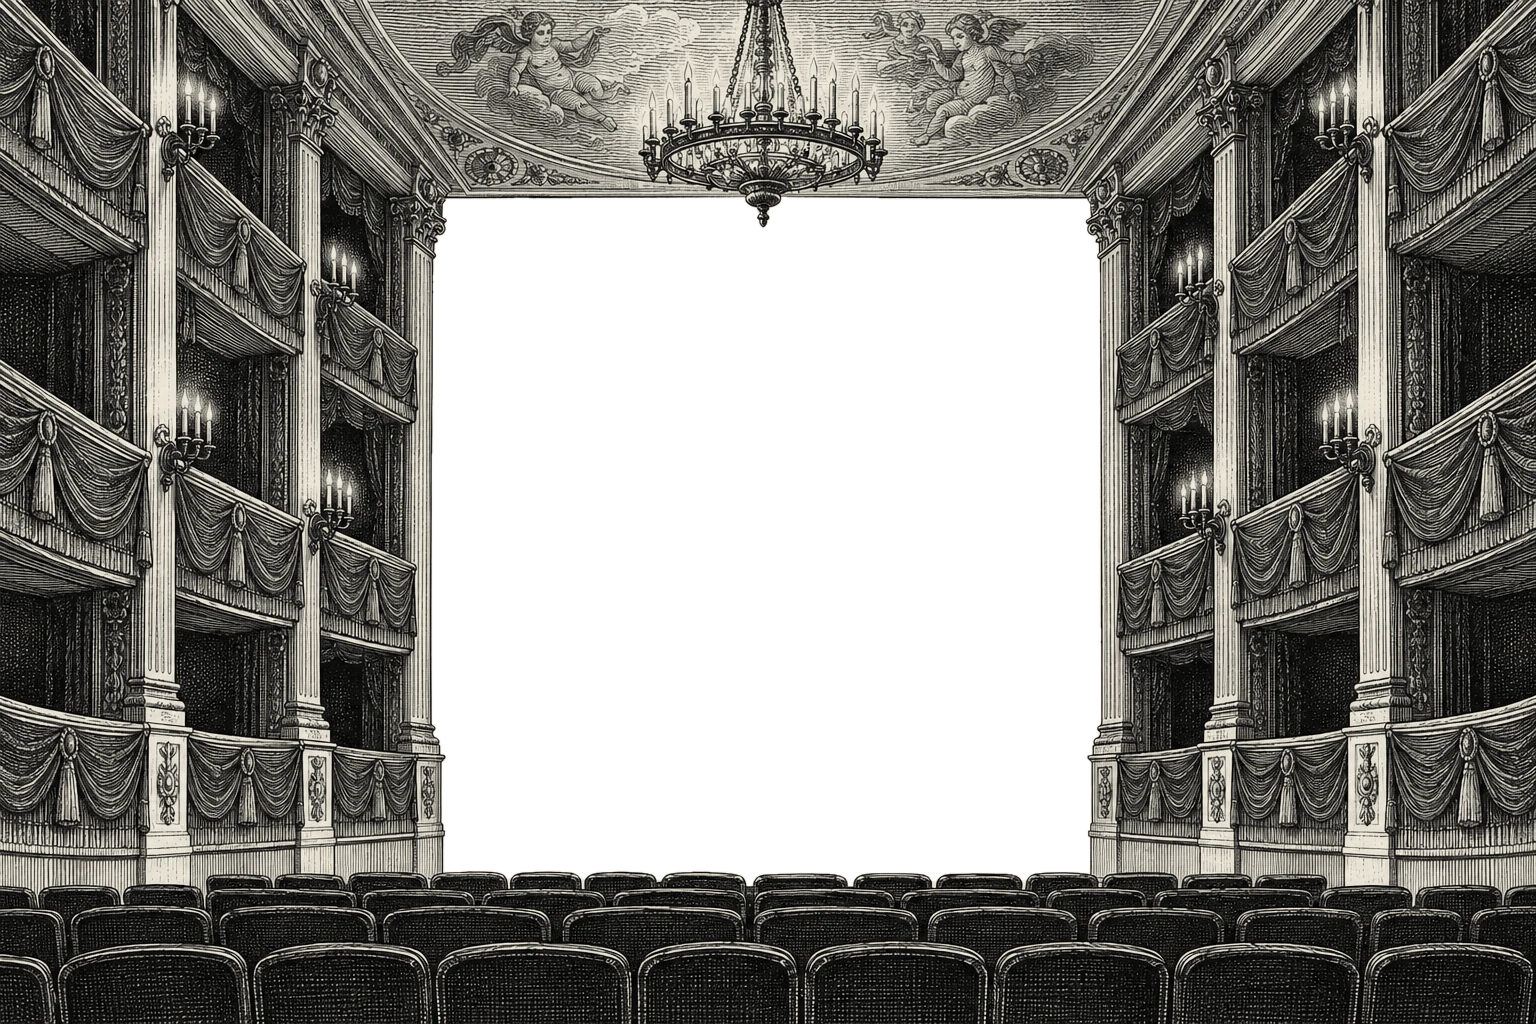
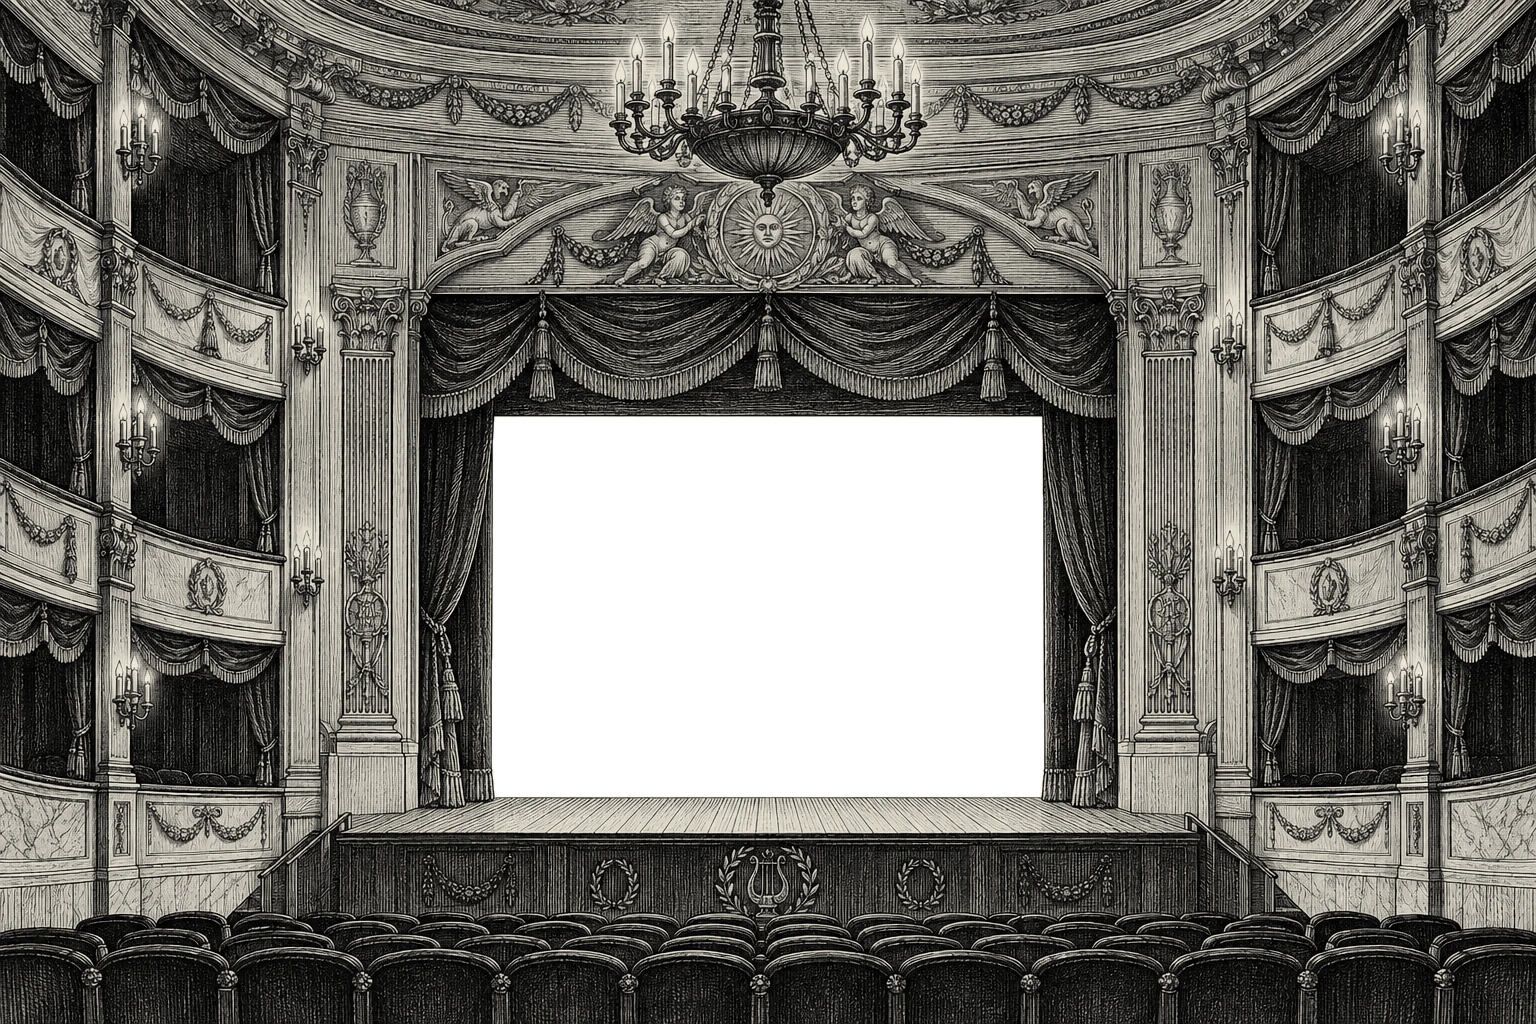
Opening: the hall's own arch and curtains frame the toy theatre, as in the Alice game
The hall drawing with its stage arch is back; the toy front stands on its stage,
dark drapery behind it, the audience nearer the seat, the view pulled back.

Claude-Session: https://claude.ai/code/session_015J9f2YVWE3eqxvLQrkHQmj

diff --git a/src/theatre.js b/src/theatre.js
@@ -15,7 +15,7 @@ export const PROS = { w: 12, h: 7.2, z: 2.2, open: { w: 8.4, h: 4.6, cy: 2.55 } 
 const K = 0.7;
 const at = ([x, y, z]) => [x * K, y * K, PROS.z + (z - PROS.z) * K];
 // The opening shot, from the stalls (scenes start their camera here).
-export const SEAT = { pos: at([0, 2.0, 19.5]), look: at([0, 1.6, -3]) };
+export const SEAT = { pos: at([0, 2.3, 25]), look: at([0, 1.9, -3]) };
 // Over the heads, up the aisle, just short of the toy front.
 export const AISLE = { pos: at([0, 1.9, 11.0]), look: at([0, 1.5, -3]) };
 
@@ -111,7 +111,7 @@ function seatsArt() {
 
 // The AI theatre (tools/theatre_art.py): the openings cut out of each drawing, in its pixels.
 const FRONT_OPEN = { x0: 399, x1: 1137, y0: 274, y1: 775 }; // theatre/proscenium, 1536 x 1024
-const HOUSE_OPEN = { x0: 432, x1: 1100, y0: 197, y1: 885 }; // theatre/house: its empty middle, where the toy theatre stands
+const HOUSE_OPEN = { x0: 492, x1: 1043, y0: 417, y1: 796 }; // theatre/house: its stage opening
 
 // Builds the theatre into a scene's group. title/sub: lettered on the toy front (the drawn one;
 // the AI front has the title lettered on its banner by tools/theatre_art.py).
@@ -128,28 +128,29 @@ export function buildTheatre(scene, ai = {}, { title = 'FRANKENSTEIN', sub = '' 
     const px0 = (768 - (FRONT_OPEN.x0 + FRONT_OPEN.x1) / 2) * k;
     pros.position.set(px0, y0, PROS.z);
     group.add(pros);
-    // The hall round it has no stage arch of its own (owner, 2026-10-16: one arch, not two): the
-    // toy front stands in its empty middle, just filling its width, on a plain paper ground with
-    // a hole for the toy stage's opening.
-    const k2 = W * 1.03 / (HOUSE_OPEN.x1 - HOUSE_OPEN.x0);
+    // The hall round it, as in the Alice game (owner, 2026-10-16): the hall's own stage arch, pelmet
+    // and curtains frame the toy front, which stands on the hall's stage. The hall's opening is
+    // 0.98 of the toy front's height, so the hall's drapes just cover its outer edges and there is
+    // no blank paper round it.
+    const k2 = H * 0.98 / (HOUSE_OPEN.y1 - HOUSE_OPEN.y0);
     const house = paperFlat(ai['theatre/house'].tex, 1536 * k2, 1024 * k2, { edge: false });
-    const hy = y0 + 0.15 - (1024 - HOUSE_OPEN.y1) * k2; // the toy front's foot just below the stalls' top
-    house.position.set((768 - (HOUSE_OPEN.x0 + HOUSE_OPEN.x1) / 2) * k2, hy, PROS.z + 0.1);
-    const hole = { x0: (HOUSE_OPEN.x0 - 768) * k2 - 0.2, x1: (HOUSE_OPEN.x1 - 768) * k2 + 0.2, y0: hy + (1024 - HOUSE_OPEN.y1) * k2 - 0.2, y1: hy + (1024 - HOUSE_OPEN.y0) * k2 + 0.2 };
+    const hy = y0 - (1024 - HOUSE_OPEN.y1) * k2; // the hall's opening foot at the toy front's foot
+    house.position.set(px0 + (768 - (HOUSE_OPEN.x0 + HOUSE_OPEN.x1) / 2) * k2, hy, PROS.z + 0.1);
+    // Dark drapery behind the toy front, filling the hall's opening round its pediment and urns,
+    // with a hole for the toy stage's opening.
+    const hole = { x0: house.position.x + (HOUSE_OPEN.x0 - 768) * k2, x1: house.position.x + (HOUSE_OPEN.x1 - 768) * k2, y0: hy + (1024 - HOUSE_OPEN.y1) * k2, y1: hy + (1024 - HOUSE_OPEN.y0) * k2 };
     const op = { x0: px0 + (FRONT_OPEN.x0 - 768) * k, x1: px0 + (FRONT_OPEN.x1 - 768) * k, y0: y0 + (1024 - FRONT_OPEN.y1) * k, y1: y0 + (1024 - FRONT_OPEN.y0) * k };
     const shape = new THREE.Shape([new THREE.Vector2(hole.x0, hole.y0), new THREE.Vector2(hole.x1, hole.y0), new THREE.Vector2(hole.x1, hole.y1), new THREE.Vector2(hole.x0, hole.y1)]);
     shape.holes.push(new THREE.Path([new THREE.Vector2(op.x0, op.y0), new THREE.Vector2(op.x0, op.y1), new THREE.Vector2(op.x1, op.y1), new THREE.Vector2(op.x1, op.y0)]));
-    const ground = new THREE.Mesh(new THREE.ShapeGeometry(shape), new THREE.MeshBasicMaterial({ color: '#efe9da' }));
-    ground.position.z = PROS.z + 0.05; group.add(ground);
+    const backing = new THREE.Mesh(new THREE.ShapeGeometry(shape), new THREE.MeshBasicMaterial({ color: '#2b2723' }));
+    backing.position.z = PROS.z - 0.05; group.add(backing);
     const sa = ai['theatre/seats'].aspect ?? 1500 / 769, seatsW = 5.2, seatsH = seatsW / sa;
     const seats = paperFlat(ai['theatre/seats'].tex, seatsW, seatsH, { edge: false });
-    seats.position.set(0, 1.5 - seatsH, 14.2); // hat-tops at the stage floor as seen from the seat, so the stage shows over them
+    seats.position.set(0, 1.62 - seatsH, 18); // hat-tops at the stage floor as seen from the seat, so the stage shows over them
     // The same row again at each end (mirrored), for wide and tall screens.
-    const more = [-1, 1].map((d) => { const m = paperFlat(ai['theatre/seats'].tex, seatsW, seatsH, { edge: false }); m.scale.x = -1; m.position.set(d * seatsW, seats.position.y, 14.2); return m; });
-    // Drawn over the set (and only ever seen from the audience's side).
-    // All drawn over the set, in this order (only ever seen from the audience's side; from the
-    // stage the ground's back face is culled).
-    overSet(ground, 40); overSet(pros, 45); overSet(house, 50); overSet(seats, 60); more.forEach((m) => overSet(m, 60));
+    const more = [-1, 1].map((d) => { const m = paperFlat(ai['theatre/seats'].tex, seatsW, seatsH, { edge: false }); m.scale.x = -1; m.position.set(d * seatsW, seats.position.y, 18); return m; });
+    // All drawn over the set, in this order (only ever seen from the audience's side).
+    overSet(backing, 40); overSet(pros, 45); overSet(house, 50); overSet(seats, 60); more.forEach((m) => overSet(m, 60));
     group.add(house, seats, ...more);
     return { pros, house, seats };
   }

diff --git a/tools/theatre_art.py b/tools/theatre_art.py
@@ -57,4 +57,4 @@ def cut(name, seed, title=None, sign_seed=None, corners=()):
 
 if __name__ == "__main__":
     cut("proscenium", (768, 480), title=("FRANKENSTEIN", "or, The Modern Prometheus"), sign_seed=(768, 160), corners=((4, 4), (1531, 4), (180, 40), (1356, 40), (300, 60), (1236, 60)))
-    cut("house", (768, 535))
+    cut("house", (768, 600))
